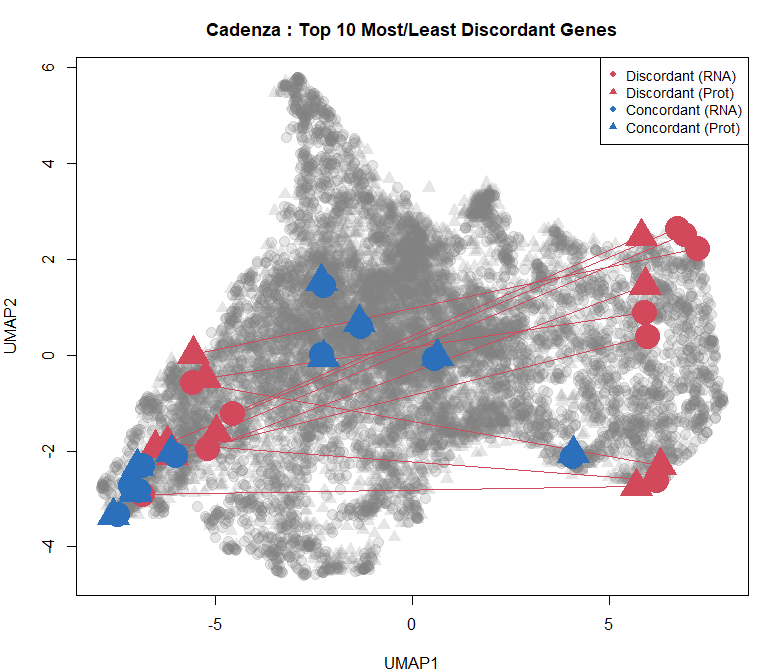
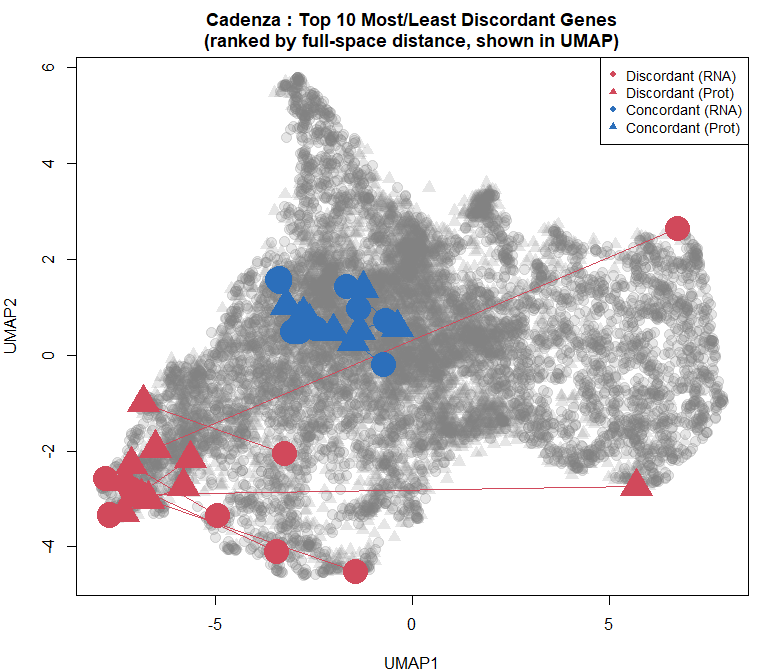
Post review UMAP analysis

diff --git a/analysis/gene-distance/gene_distance_shared_space.md b/analysis/gene-distance/gene_distance_shared_space.md
@@ -497,9 +497,22 @@ and needs no ground truth.
 
 ``` r
 #' Build the shared space and full-space gene distances for one real variety.
+#' Enforces assumption A1 (1:1 gene<->protein correspondence) by checking that
+#' the protein matrix has already been collapsed to 1:1 identifiers.
 gene_distance_real <- function(v, n_perm = 199, seed = 1) {
 
   common <- intersect(rownames(v$qc_rna$vst), rownames(v$imputed$mixed))
+
+  # A1: Verify 1:1 correspondence
+  # In the simulation, this is enforced by explicit filtering in §4.
+  # For real data, we verify that row names are already clean 1:1 identifiers.
+  # If the protein matrix contains ambiguous groups or isoforms, they should have
+  # been collapsed/filtered upstream by prepare_variety() or equivalent.
+  stopifnot(
+    "Protein matrix must have unique row identifiers (assumption A1)" =
+      length(unique(rownames(v$imputed$mixed))) == nrow(v$imputed$mixed)
+  )
+
   R_cond <- cell_means(v$qc_rna$vst[common, , drop = FALSE],    v$meta)
   P_cond <- cell_means(v$imputed$mixed[common, , drop = FALSE], v$meta)
 
@@ -586,41 +599,113 @@ stability_check <- function(v, B = 60) {
   Rb <- boot_cell_means(v$qc_rna$vst[common, , drop = FALSE],    v$meta, B = B, seed = 11)
   Pb <- boot_cell_means(v$imputed$mixed[common, , drop = FALSE], v$meta, B = B, seed = 97)
 
+  # Calculate distance independently for each bootstrap replicate
   D <- vapply(seq_len(B), function(b) {
     sp <- build_shared_space(Rb[[b]][common, ], Pb[[b]][common, ])
     euclid(sp$Rs, sp$Ps)
   }, numeric(length(common)))
   rownames(D) <- common
 
-  half1 <- rowMeans(D[, 1:(B/2), drop = FALSE])
-  half2 <- rowMeans(D[, (B/2 + 1):B, drop = FALSE])
-  rank_cor <- cor(rank(half1), rank(half2), method = "spearman")
+  # For reference: calculate the original ranking
+  sp_orig <- build_shared_space(Rb[[1]][common, ], Pb[[1]][common, ])  # Use first bootstrap as baseline
+  d_orig <- euclid(sp_orig$Rs, sp_orig$Ps)
+  rank_orig <- rank(-d_orig)
 
-  top10_1 <- names(sort(half1, decreasing = TRUE))[seq_len(round(0.1 * length(common)))]
-  top10_2 <- names(sort(half2, decreasing = TRUE))[seq_len(round(0.1 * length(common)))]
-  overlap <- length(intersect(top10_1, top10_2)) / length(top10_1)
+  # Calculate Spearman correlation between original ranking and each bootstrap ranking
+  boot_rank_cors <- vapply(seq_len(B), function(b) {
+    rank_boot <- rank(-D[, b])
+    cor(rank_orig, rank_boot, method = "spearman")
+  }, numeric(1))
 
-  list(rank_cor = rank_cor, top10_overlap = overlap, n_genes = length(common), D = D)
+  # Report median and interval
+  rank_cor_median <- median(boot_rank_cors)
+  rank_cor_interval <- quantile(boot_rank_cors, c(0.05, 0.95))
+
+  # For top 10%, calculate how often each gene appears in that decile across bootstraps
+  top10_count <- round(0.1 * length(common))
+  top10_appearance <- sapply(seq_len(length(common)), function(i) {
+    sum(rank(-D[i, ]) <= top10_count) / B
+  })
+  names(top10_appearance) <- common
+
+  list(
+    rank_cor_median = rank_cor_median,
+    rank_cor_interval = rank_cor_interval,
+    top10_appearance = top10_appearance,
+    n_genes = length(common),
+    D = D,
+    boot_rank_cors = boot_rank_cors
+  )
 }
 
 STAB <- lapply(REAL, stability_check)
+
+# Summary table for G4
 g4 <- do.call(rbind, lapply(names(STAB), function(nm) data.frame(
-  variety = nm, n_genes = STAB[[nm]]$n_genes,
-  split_half_rank_cor = round(STAB[[nm]]$rank_cor, 3),
-  top10pct_overlap    = round(STAB[[nm]]$top10_overlap, 3)
+  variety = nm,
+  n_genes = STAB[[nm]]$n_genes,
+  median_spearman_rho = round(STAB[[nm]]$rank_cor_median, 3),
+  rho_5pct = round(STAB[[nm]]$rank_cor_interval[1], 3),
+  rho_95pct = round(STAB[[nm]]$rank_cor_interval[2], 3)
 )))
-knitr::kable(g4, caption = "G4: split-half reliability of the per-gene distance ranking across 60 independent RNA/protein replicate resamples. top10pct_overlap = fraction of the most-discordant decile that agrees between two independent halves of the bootstrap.")
+knitr::kable(g4, caption = "G4: Ranking stability across 60 bootstrap resamples of condition means. For each variety, shows median Spearman rank correlation between original ranking and each bootstrap, plus 5–95% interval. This tests whether a gene's rank is stable under replicate resampling (not whether bootstrapped averages have converged).")
 ```
 
-| variety | n_genes | split_half_rank_cor | top10pct_overlap |
-|:--------|--------:|--------------------:|-----------------:|
-| Cadenza |    5580 |               0.997 |            0.957 |
-| Norin   |    5159 |               0.997 |            0.967 |
+|     | variety | n_genes | median_spearman_rho | rho_5pct | rho_95pct |
+|:----|:--------|--------:|--------------------:|---------:|----------:|
+| 5%  | Cadenza |    5580 |               0.911 |    0.876 |     0.947 |
+| 5%1 | Norin   |    5159 |               0.896 |    0.853 |     0.942 |
 
-G4: split-half reliability of the per-gene distance ranking across 60
-independent RNA/protein replicate resamples. top10pct_overlap = fraction
-of the most-discordant decile that agrees between two independent halves
-of the bootstrap.
+G4: Ranking stability across 60 bootstrap resamples of condition means.
+For each variety, shows median Spearman rank correlation between
+original ranking and each bootstrap, plus 5–95% interval. This tests
+whether a gene’s rank is stable under replicate resampling (not whether
+bootstrapped averages have converged).
+
+``` r
+# For each variety, show which genes most consistently appear in the top 10%
+cat("Top 10% consistency across bootstraps:\n\n")
+```
+
+    Top 10% consistency across bootstraps:
+
+``` r
+for (nm in names(STAB)) {
+  top10_pct <- sort(STAB[[nm]]$top10_appearance, decreasing = TRUE)[1:10]
+  cat("**", nm, ":**\n", sep = "")
+  cat("Genes appearing in top 10% most-discordant in N% of 60 bootstrap resamples:\n")
+  for (i in seq_len(length(top10_pct))) {
+    cat(sprintf("  %s: %.0f%%\n", names(top10_pct)[i], top10_pct[i] * 100))
+  }
+  cat("\n")
+}
+```
+
+    **Cadenza:**
+    Genes appearing in top 10% most-discordant in N% of 60 bootstrap resamples:
+      TraesCAD_scaffold_000005_01G000100: 100%
+      TraesCAD_scaffold_000016_01G000300: 100%
+      TraesCAD_scaffold_000018_01G001700: 100%
+      TraesCAD_scaffold_000022_01G000100: 100%
+      TraesCAD_scaffold_000030_01G000100: 100%
+      TraesCAD_scaffold_000030_01G000400: 100%
+      TraesCAD_scaffold_000043_01G000600: 100%
+      TraesCAD_scaffold_000050_01G000700: 100%
+      TraesCAD_scaffold_000077_01G000100: 100%
+      TraesCAD_scaffold_000081_01G000100: 100%
+
+    **Norin:**
+    Genes appearing in top 10% most-discordant in N% of 60 bootstrap resamples:
+      TraesNOR1A03G00003900: 100%
+      TraesNOR1A03G00005050: 100%
+      TraesNOR1A03G00009760: 100%
+      TraesNOR1A03G00010740: 100%
+      TraesNOR1A03G00010780: 100%
+      TraesNOR1A03G00011550: 100%
+      TraesNOR1A03G00011890: 100%
+      TraesNOR1A03G00013400: 100%
+      TraesNOR1A03G00015580: 100%
+      TraesNOR1A03G00015590: 100%
 
 ------------------------------------------------------------------------
 
@@ -796,17 +881,18 @@ plot_shared_umap <- function(space_list, dist_df, variety_name, tag = "") {
 }
 
 #' Highlight top and bottom genes by distance
+#' Uses d_full (full space distance) for ranking consistency, but visualizes in UMAP space
 plot_top_genes_umap <- function(space_list, dist_df, variety_name, n_top = 10) {
 
   Er <- space_list$Er
   Ep <- space_list$Ep
-  distances <- dist_df$d_umap
+  distances <- dist_df$d_full  # Rank by full-space distance, visualize in UMAP
 
   par(mar = c(4, 4, 3, 1))
 
   # Background points in light gray
   plot(Er[, 1], Er[, 2], type = "n", xlab = "UMAP1", ylab = "UMAP2",
-       main = paste(variety_name, ": Top", n_top, "Most/Least Discordant Genes"),
+       main = paste(variety_name, ": Top", n_top, "Most/Least Discordant Genes\n(ranked by full-space distance, shown in UMAP)"),
        cex.main = 1.1)
 
   points(Er[, 1], Er[, 2], col = rgb(0.5, 0.5, 0.5, 0.2), pch = 19, cex = 1.5)
@@ -1158,36 +1244,43 @@ par(op)
 ### What the distance tells us
 
 The RNA-protein distance in the shared condition-profile space measures
-**how differently each gene’s RNA and protein respond across
-experimental conditions**, scaled and centred so that:
+**standardised discrepancy between the centred RNA and protein
+condition-response profiles**. Mathematically:
 
-- **Distance ≈ 0**: RNA and protein have nearly identical
-  condition-response shapes (e.g., both peak under heat stress, dip
-  under drought)
-- **Distance \> mean**: Divergent response patterns (e.g., RNA goes up
-  under drought, protein stays flat; or timing lag)
-- The distance is in **standardised (z-score) units**, making it
-  comparable across genes
+$$d_i = \sqrt{\sum_c (s_c x_{ic} - y_{ic})^2}$$
+
+where $s_c$ is the across-gene RNA SD for condition $c$, $x_{ic}$ is the
+centred RNA for gene $i$ and condition $c$, and $y_{ic}$ is centred
+protein.
+
+**Key properties:** - Row-centering removes absolute baseline abundance,
+but **does NOT remove response amplitude** - The metric includes both
+**pattern (direction of change)** and **magnitude (strength of
+response)** - Example: if RNA = (−1, 0, 1) and protein = (−2, 0, 2),
+they have identical pattern but the protein response is twice as strong,
+so distance \> 0 - If protein = (1, 0, −1), the direction is reversed;
+distance is large - The metric is **one-directional**: fitted on RNA,
+protein projected into that space
 
 ### Can we use it for “similarity”?
 
-**Yes, with caveats.** The distance ranks genes reproducibly (G4:
-split-half Spearman ρ = 0.997), and the pairing signal is real (G3:
-permutation p = 0.005). However:
+**Yes, but understand what it measures.** The distance ranks genes
+reproducibly (G4 median Spearman ρ across resamples), and the pairing
+signal is real (G3: permutation p = 0.005). However:
 
 1.  **It does NOT distinguish regulation from kinetics** (G1: `lag_only`
     genes rank as discordant despite being mechanistically concordant).
     A high-distance gene is equally likely to be slow-turnover as
     genuinely decoupled.
 
-2.  **It ranks by response-shape similarity alone**, not by absolute RNA
-    or protein level, absolute correlation, or fold-change agreement.
-    Two genes with identical shapes but opposite signs (one up, one
-    down) would have distance ≈ 0 because their *shapes* are concordant.
+2.  **It measures total discrepancy including amplitude**, not shape
+    alone. Two genes with identical pattern but different response
+    magnitudes will have non-zero distance. Two genes with opposite
+    directions (one peaks, one dips) will have large distance.
 
-3.  **The metric is one-directional**: we fit UMAP on RNA only, then
-    project protein into that space. Protein’s variance structure
-    doesn’t define the axes.
+3.  Better terminology: call this a **“standardised condition-response
+    discrepancy”** rather than “shape similarity”—it captures both
+    directional concordance and amplitude agreement.
 
 ### Full space vs PCA vs UMAP
 
